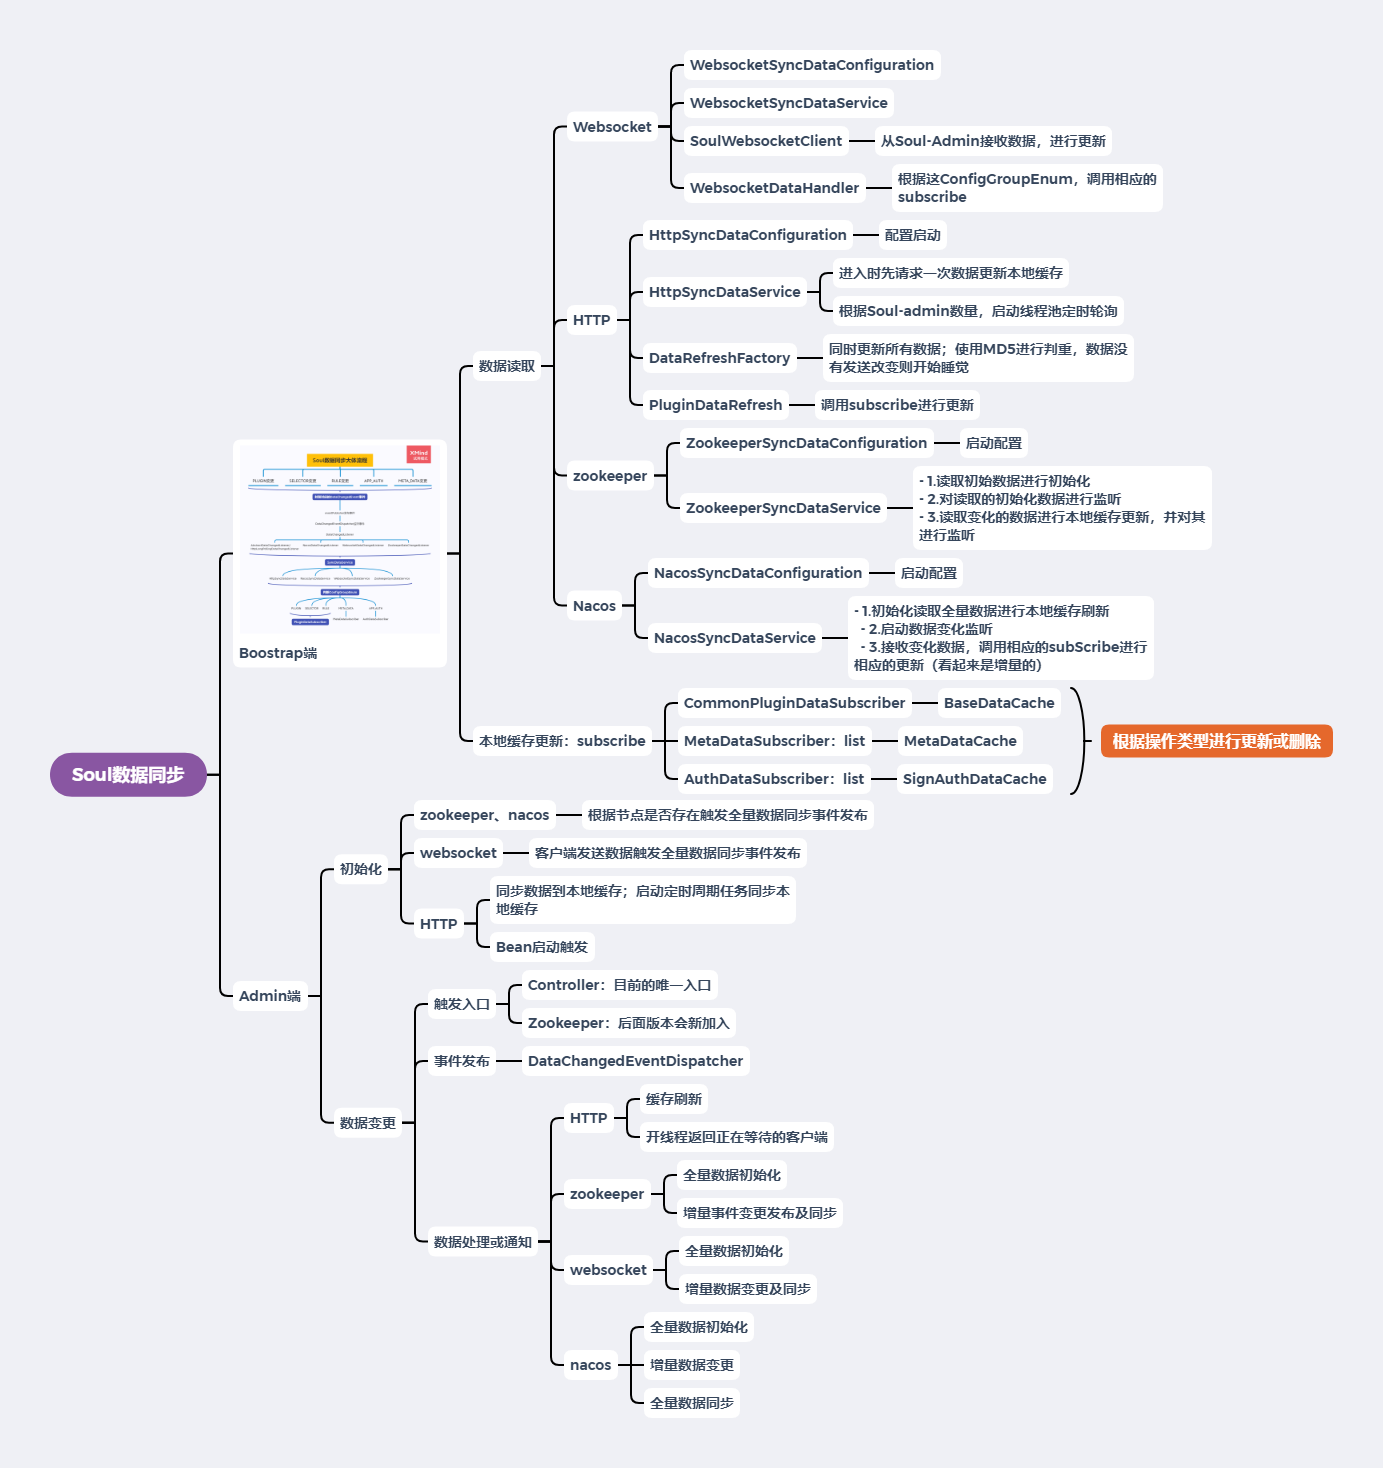
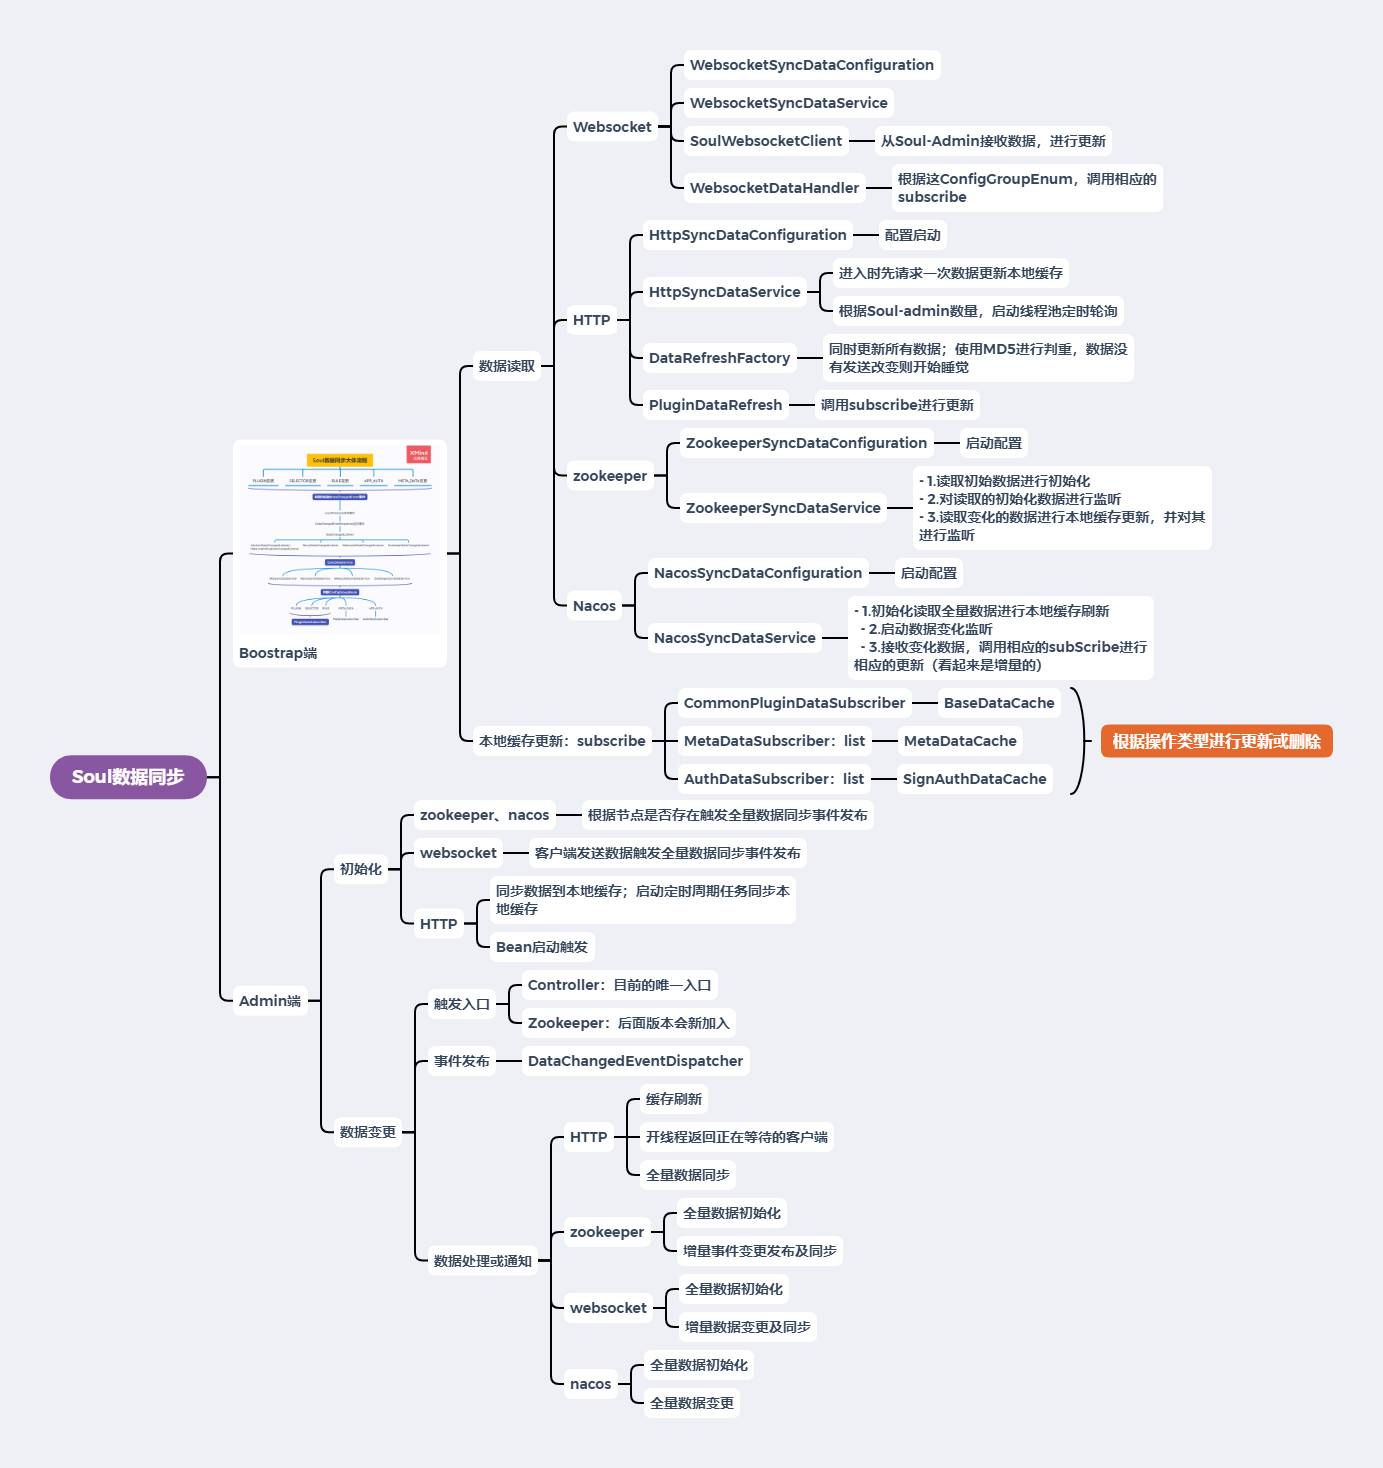
Soul网关源码解析（二十二）数据同步小结

diff --git a/profession/program/开源/soul/soul源码解析22-数据同步小结.md b/profession/program/开源/soul/soul源码解析22-数据同步小结.md
@@ -19,9 +19,7 @@
 
 &ensp;&ensp;&ensp;&ensp;推荐的同步方式是Zookeeper和Websocket，他们都是增量数据更新的
 
-&ensp;&ensp;&ensp;&ensp;HTTP是全量更新的
-
-&ensp;&ensp;&ensp;&ensp;Nacos在Bootstrap端看着是增量更新的，但在Admin端，每次都是需要全量的数据刷新更新
+&ensp;&ensp;&ensp;&ensp;HTTP、Nacos是全量更新的
 
 ### Admin端数据同步
 &ensp;&ensp;&ensp;&ensp;Admin端的数据同步套路基本一致，都是通过事件发布进行的
@@ -38,4 +36,4 @@
 
 &ensp;&ensp;&ensp;&ensp;初始化启动时都是拉取的全量数据进行本地缓存刷新
 
-&ensp;&ensp;&ensp;&ensp;Zookeeper、Nacos、Websocket看起来都是增量数据更新，HTTP是全量数据更新
+&ensp;&ensp;&ensp;&ensp;Zookeeper、Websocket都是增量数据更新，HTTP、Nacos是全量数据更新

diff --git a/profession/program/开源/soul/Soul源码解析目录.md b/profession/program/开源/soul/Soul源码解析目录.md
@@ -23,5 +23,6 @@
 - [Soul网关源码解析（十九）Nacos数据同步初始化修复-Admin端](https://juejin.cn/post/6921621915995996168/)
 - [Soul网关源码解析（二十）Websocket数据同步-Admin端](https://juejin.cn/post/6921988280187617287/)
 - [Soul网关源码解析（二十一）HTTP长轮询数据同步-Admin端](https://juejin.cn/post/6922301585288593416/)
+- [Soul网关源码解析（二十二）数据同步小结]()
 
 - [Soul网关源码阅读番外篇（一） HTTP参数请求错误](https://juejin.cn/post/6918947689564471309)
